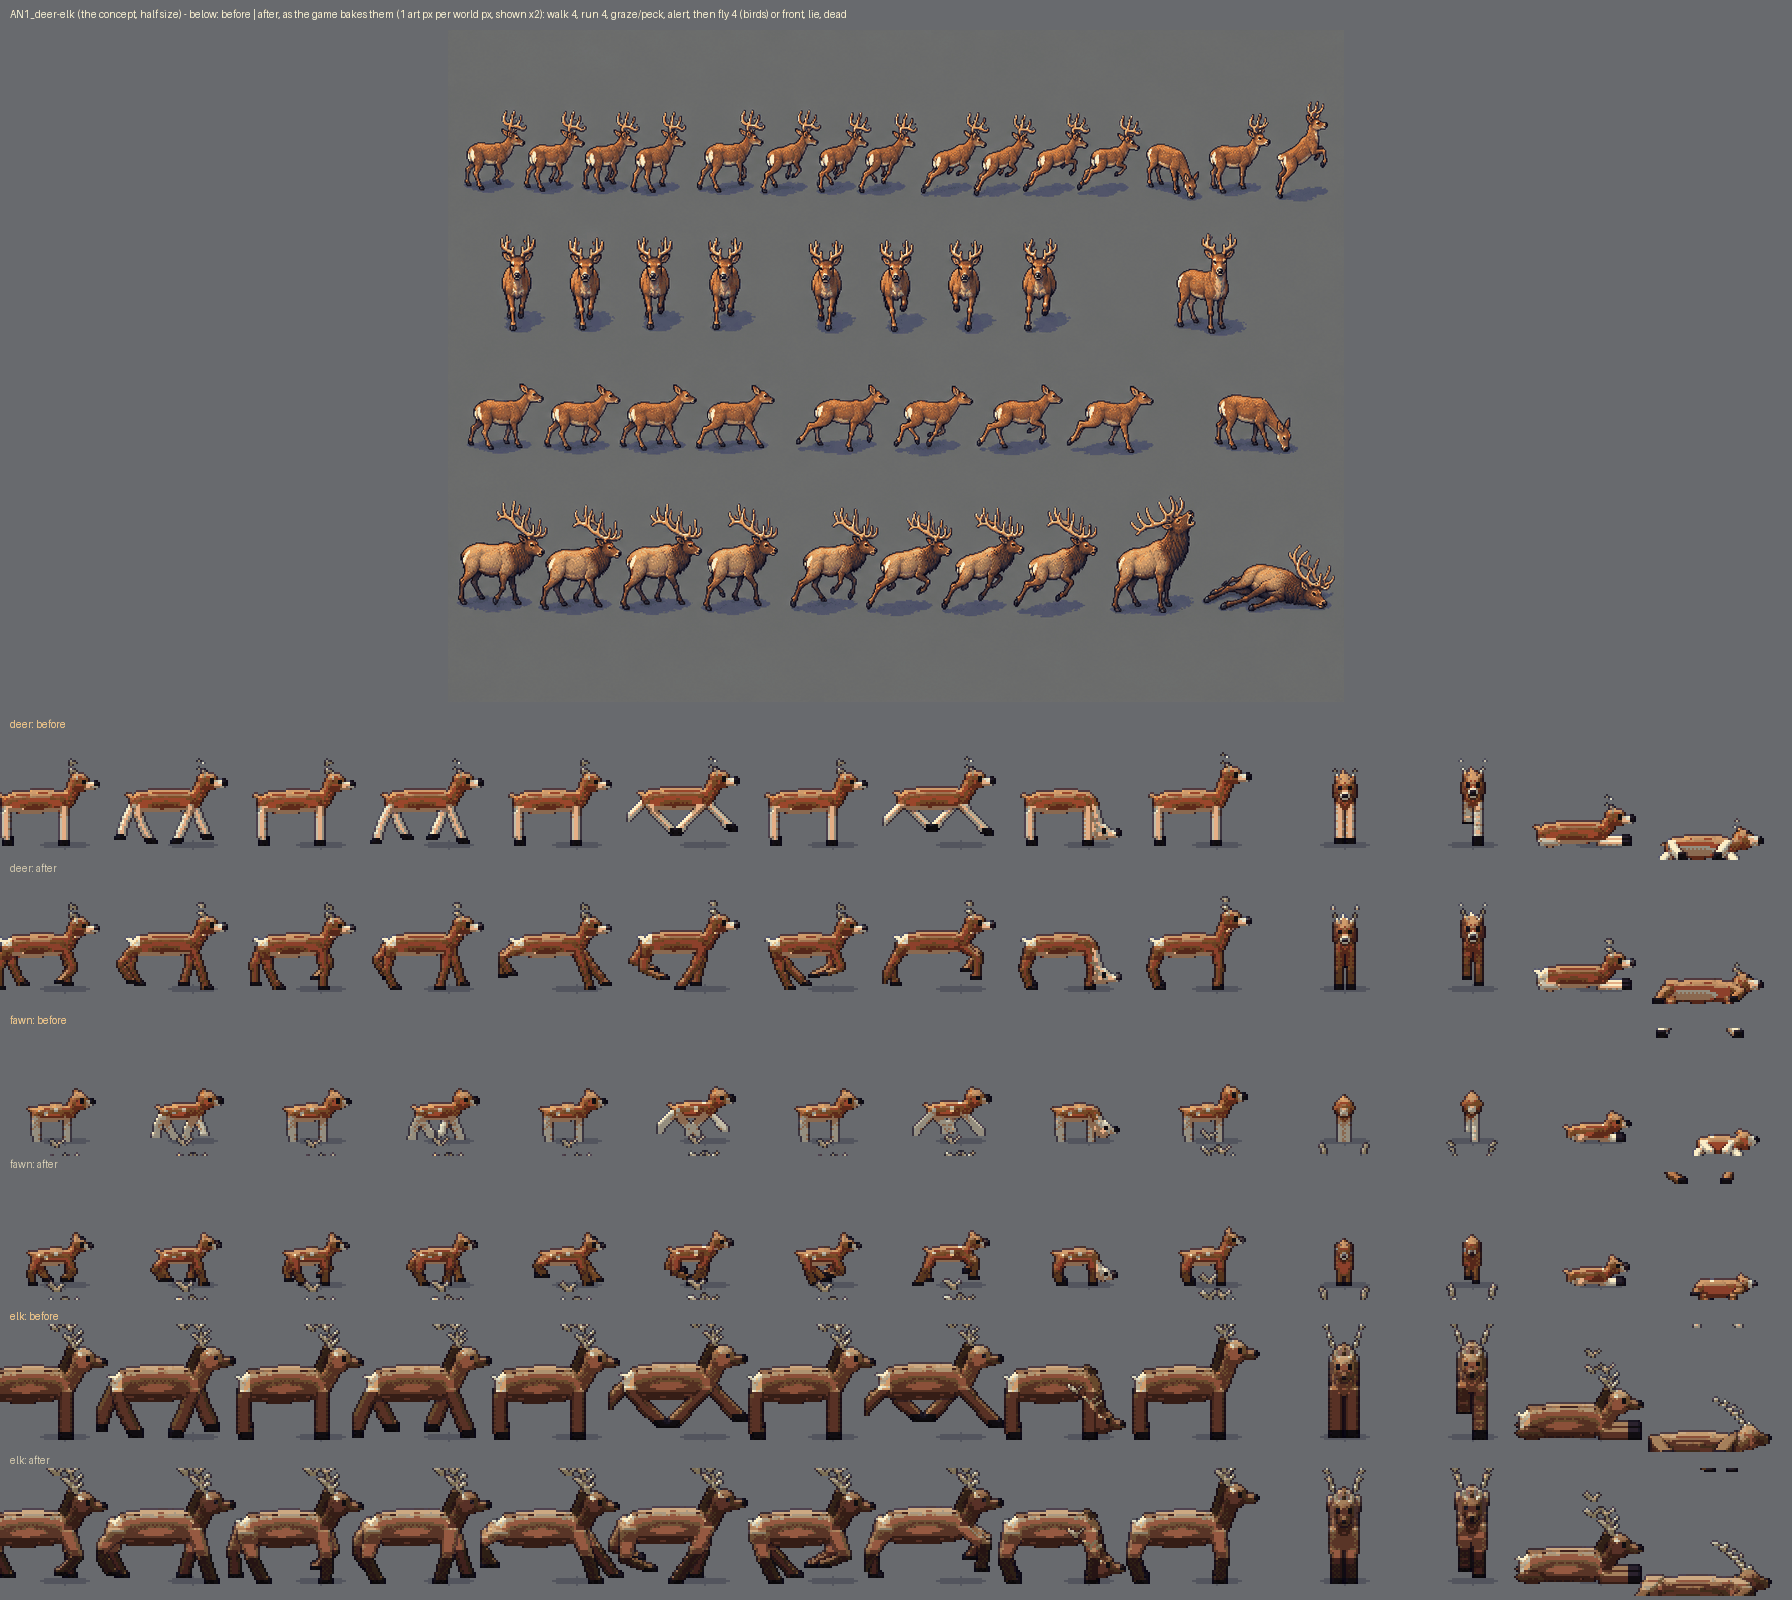
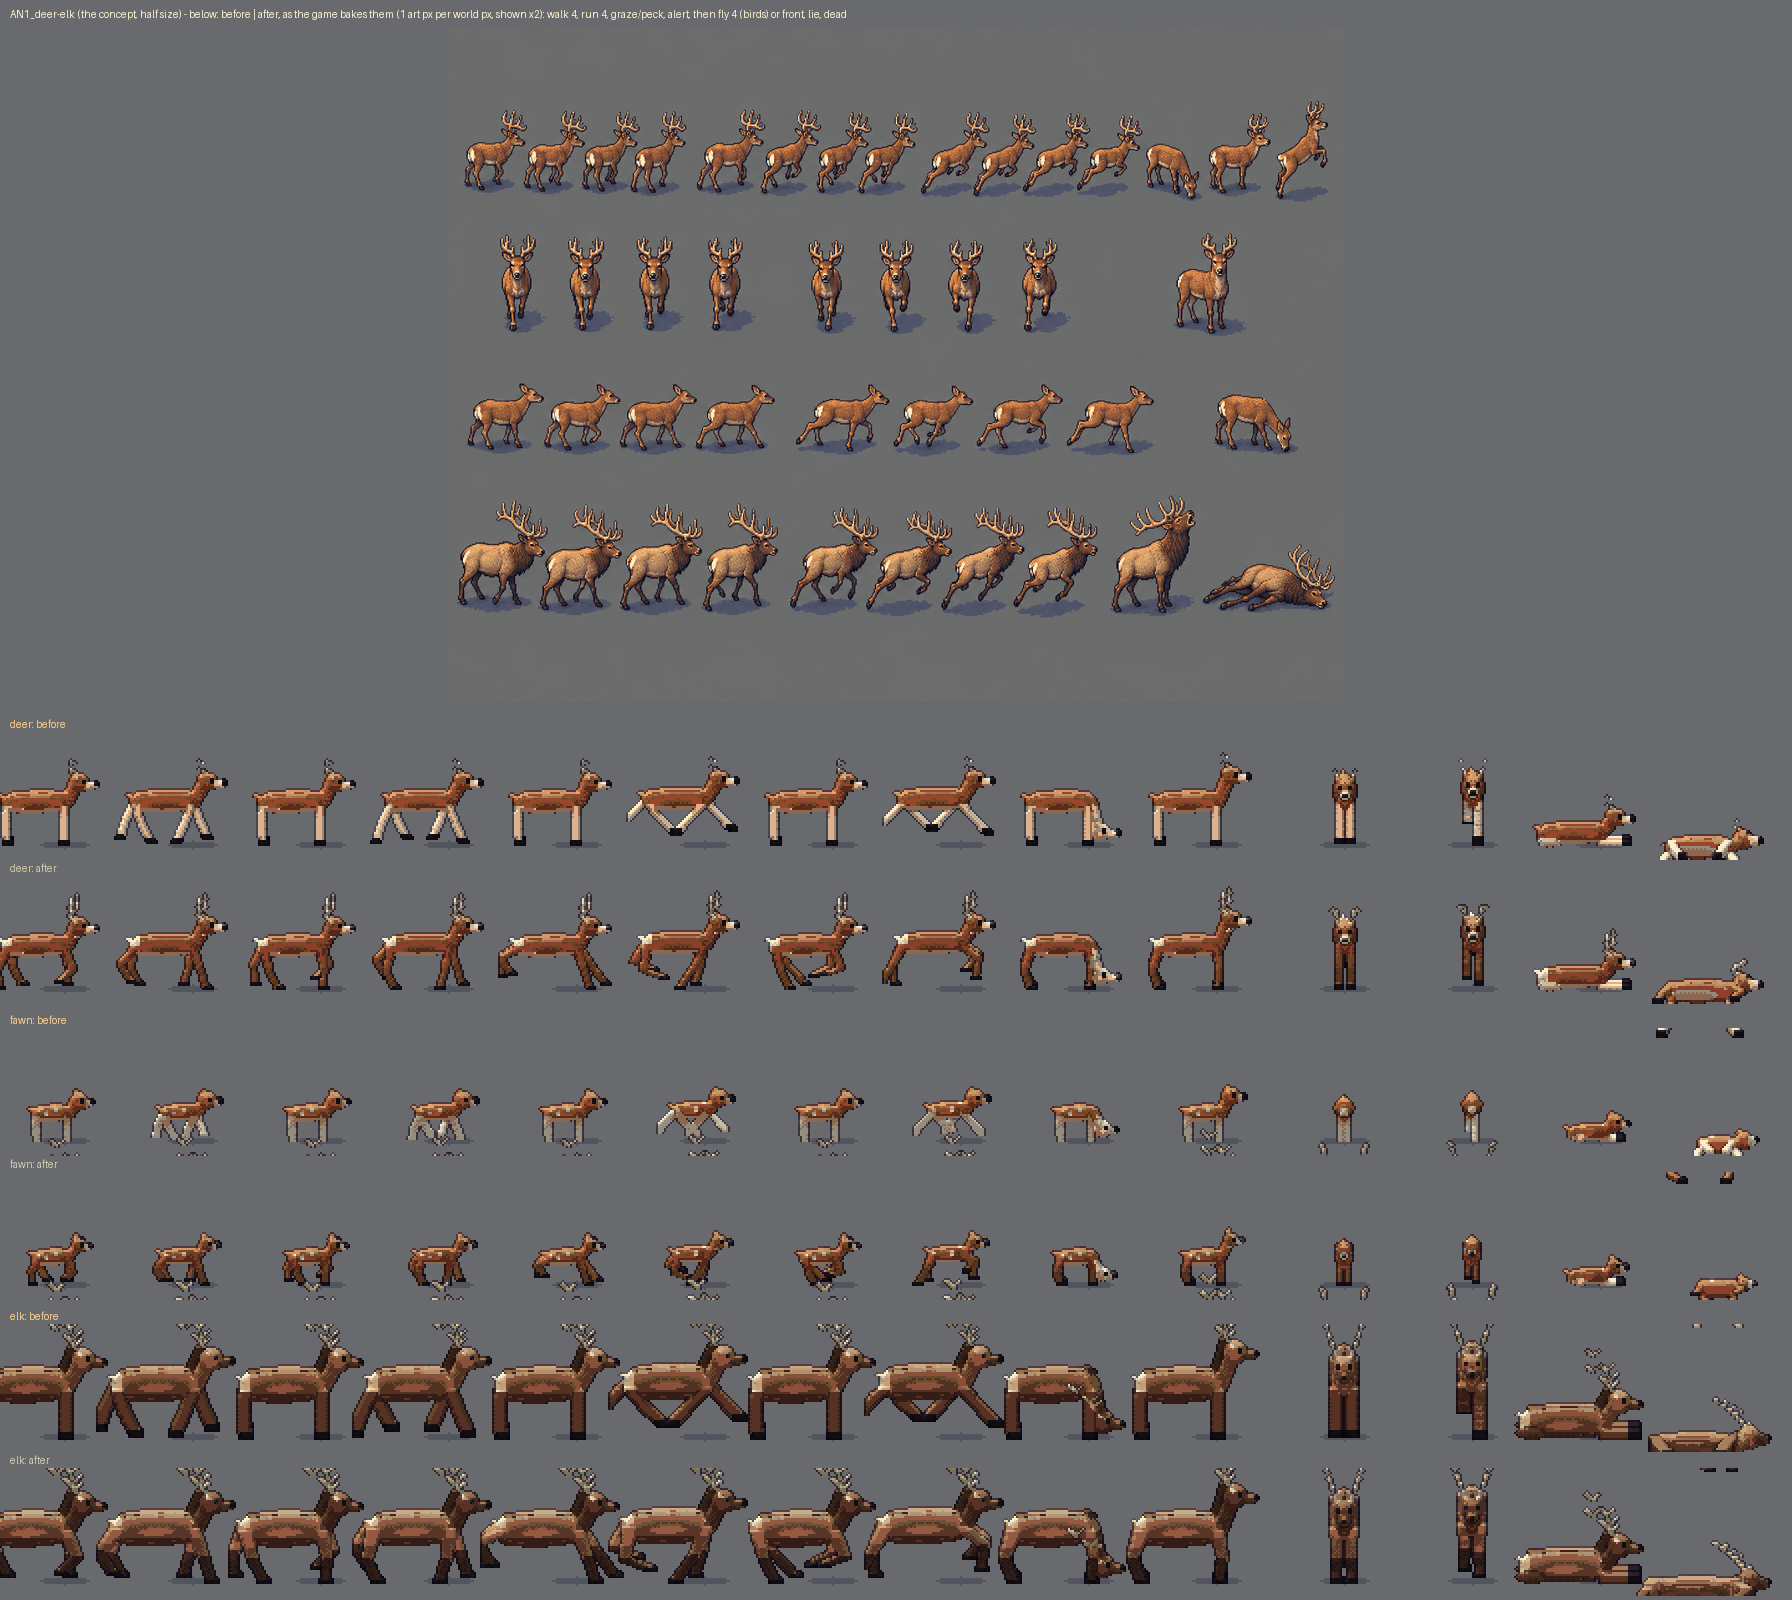
Deer: slender legs and a rack that reads from the side (AN1); the hoofed animals' legs slimmer; sheets refreshed
Claude-Session: https://claude.ai/code/session_015TdwbASoLBxZr1VoEZGToX

diff --git a/client/art2/animals.js b/client/art2/animals.js
@@ -152,8 +152,9 @@ export function animalModel(kind, o = {}) {
       const dx = fx, dz = fz - top, d = Math.max(0.5, Math.min(L2 * 1.995, Math.hypot(dx, dz))), th = Math.atan2(dz, dx), al = Math.acos(Math.min(1, d / (2 * L2)));
       const kx = lx + Math.cos(th + (back ? -al : al)) * L2, kz = top + Math.sin(th + (back ? -al : al)) * L2;
       const seg = (x0s, z0s, x1s, z1s, r0, r1, mt) => { const n = Math.ceil(Math.hypot(x1s - x0s, z1s - z0s) * 2) + 1; for (let k = 0; k <= n; k++) { const t = k / n, x = x0s + (x1s - x0s) * t, z = z0s + (z1s - z0s) * t, r = r0 + (r1 - r0) * t; m.box(x - r, ly - r, Math.max(0, z - 0.5), x + r, ly + r, Math.max(0, z) + 0.6, mt); } };
-      seg(lx, top + legR, kx, kz, legR * (back ? 1.6 : 1.3) * (A.bear ? 0.8 : 1), legR * 0.85, base);   // (the thigh, the forearm)
-      seg(kx, kz, lx + fx, fz + 0.6, legR * 0.8, legR * 0.7, lower);                // (the cannon, the shin)
+      const sl = A.hoof && !A.hump ? 0.82 : 1;   // (a deer's, an elk's, a boar's slender legs)
+      seg(lx, top + legR, kx, kz, legR * (back ? 1.6 : 1.3) * (A.bear ? 0.8 : 1) * sl, legR * 0.85 * sl, base);   // (the thigh, the forearm)
+      seg(kx, kz, lx + fx, fz + 0.6, legR * 0.8 * sl, legR * 0.7 * sl, lower);                // (the cannon, the shin)
       m.box(lx + fx - legR * 0.8, ly - legR * 0.8, fz, lx + fx + legR + 0.6, ly + legR * 0.8, fz + 1.2, hoof);   // (a hoof or a paw)
       return;
     }
@@ -207,7 +208,11 @@ export function animalModel(kind, o = {}) {
   if (A.horns === 'black' || A.horns === 'nub') for (const s of [-1, 1]) for (let k = 0; k < (A.horns === 'nub' ? 1.2 : 6); k += 0.4) m.ell(hx - k * 0.75 - (k > 3 ? (k - 3) * 0.4 : 0), cy + s * HD * 0.35, hz + HD * 0.7 + k * 0.85, 0.65, 0.6, 0.55, A.legend ? R('#e8d8a8') : R('#2a262c'));   // a mountain goat's black daggers, curving back
   else if (A.horns) for (const s of [-1, 1]) for (let k = 0; k < 4; k += 0.5) m.ell(hx - (A.horns === 'back' ? k * 0.8 : 0), cy + s * (HD * 0.4 + (A.horns === 'short' ? k * 0.5 : 0)), hz + HD * 0.7 + k * 0.6, 0.7, 0.7, 0.6, R('#d8ccb0'));
   const tine = A.legend ? R('#ecdcae') : R('#c8b48a');
-  if (A.antlers === 1) for (const s of [-1, 1]) for (let k = 0; k < 8; k += 0.5) { const tn = k > 3 && Math.round(k) % 2 === 0 ? 1.5 : 0; m.ell(hx - k * 0.3 - tn, cy + s * (HD * 0.5 + k * 0.5), hz + HD * 0.6 + k, 0.75, 0.7, 0.7, tine); }
+  if (A.antlers === 1) for (const s of [-1, 1]) for (let u = 0; u <= 1; u += 0.04) {   // (the beams sweep back, up and forward in a C, the tines straight up off them: a rack that reads from the side as in AN1)
+    const x = hx - 5 * Math.sin(Math.PI * u) + 3 * u, y = cy + s * (HD * 0.5 + u * 4), z = hz + HD * 0.6 + u * 9.5;
+    m.ell(x, y, z, 0.75, 1.25, 0.7, tine);   // (deep across the line of sight, or the character view's steep look skips it)
+    if (Math.abs(u - 0.36) < 0.02 || Math.abs(u - 0.6) < 0.02 || Math.abs(u - 0.84) < 0.02) for (let t = 0; t < 3.5; t += 0.5) m.ell(x - 0.2, y, z + t, 0.6, 1.1, 0.6, tine);
+  }
   if (A.antlers === 2) for (const s of [-1, 1]) {   // an elk's rack: long beams sweeping back, the tines forward
     for (let k = 0; k <= 17; k += 0.5) {
       const x = hx - k * 0.62 - (k > 9 ? (k - 9) * 0.6 : 0), y = cy + s * (HD * 0.45 + k * 0.5), z = hz + HD * 0.55 + k * 1.1;

diff --git a/docs/DEVLOG.md b/docs/DEVLOG.md
@@ -5676,8 +5676,9 @@ and turkey, AN3 small game, AN8 quail): the rows are the game's own bake (actors
     864 sprites: 5.6 s before, 5.8 s after on the shared test machine).
   - The pets keep their straight-legged rig.
 - **Coats and shapes:**
-  - The deer: warmer brown, a white rump patch and throat, a dark nose, heavier antlers. The elk: paler, with the dark
-    neck, head and shins of AN1 and a heavier rack.
+  - The deer: warmer brown, a white rump patch and throat, a dark nose, slender legs, and a rack that reads from the
+    side (the beams sweep back, up and forward, the tines straight up). The elk: paler, with the dark neck, head and
+    shins of AN1 and a heavier rack.
   - A stalking cougar (or anything crouched) bends its legs instead of shortening them.
   - The boar: darker, a bigger head, a bristle crest over the shoulders, grizzled.
   - The bears: leaner and a little taller, so the legs show under the body as in AN2 and AN4.
